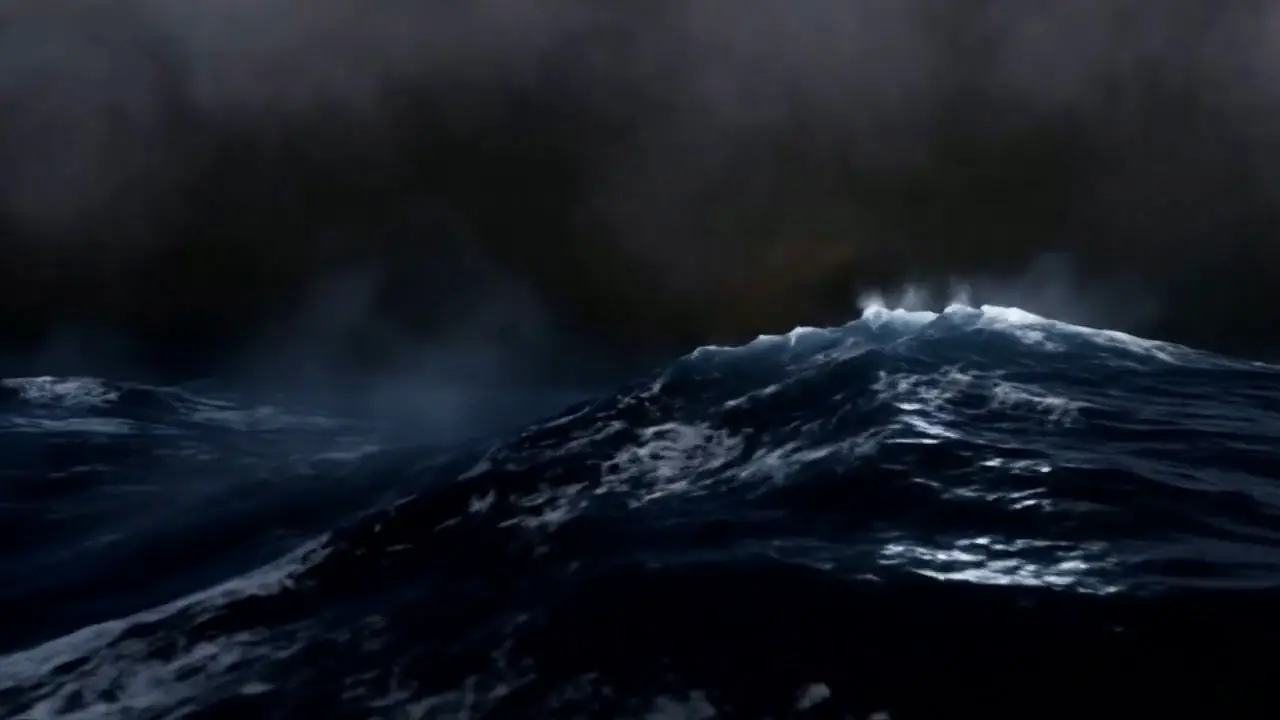
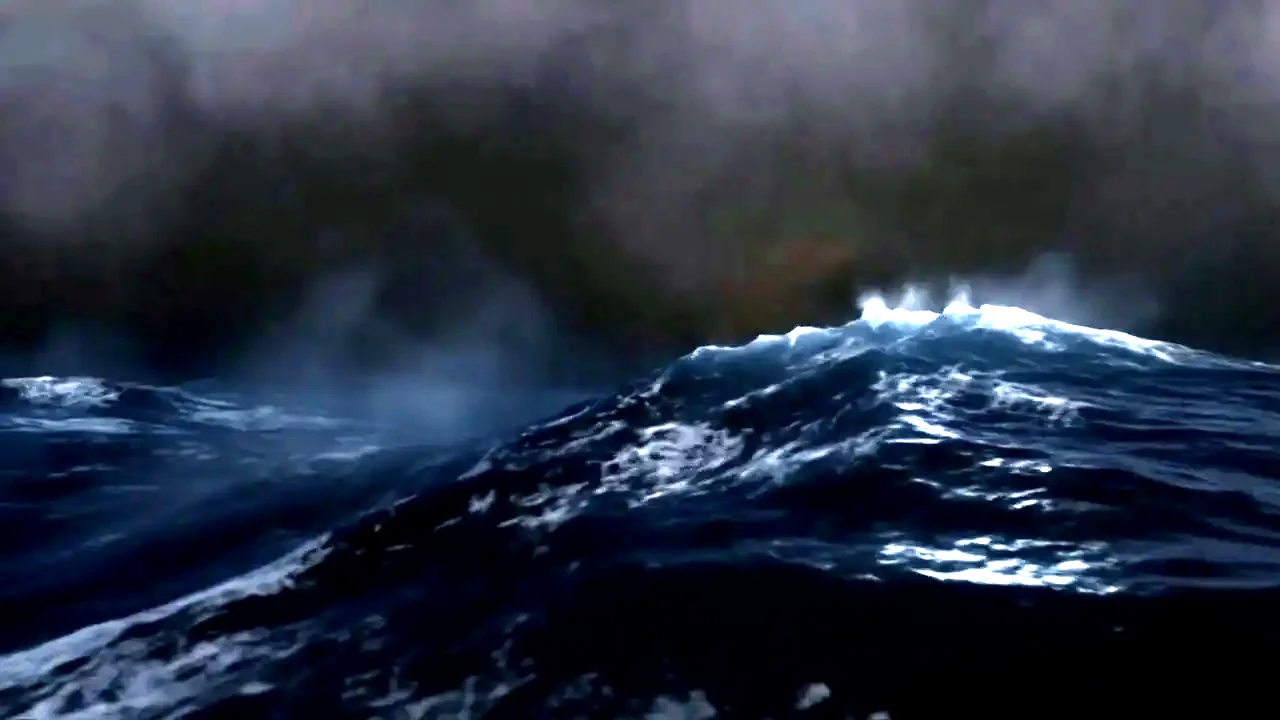
fix(hero): make ocean always visible + Mike May 27 copy edits
Hero ocean rendered black for Mike across Chrome/incognito/Mac/phone.
Root cause: the fallback <img> sat INSIDE <video>, so it was no-video
fallback content that never renders on modern browsers. When autoplay
was blocked (incognito, mobile, slow link) there was no image layer -
just the near-black poster, so the hero read as solid black.

- Move .hero-photo out of <video> to a real sibling base layer that
  always renders; drop the video poster so a non-playing video stays
  transparent and reveals the photo behind it.
- Brighten hero-ocean-night.webp (mean luma 27 -> 49) so the static
  ocean reads as ocean, not black; remove the .hero-photo brightness
  cut and set mobile photo opacity to 1.
- Sport-fishing card: "Three days" -> "Three days . Live aboard".
- Final headline personalized: "Michael is the same person in every room".

diff --git a/index.html b/index.html
@@ -228,11 +228,14 @@
   <!-- ============ HERO (centered, photo ocean background) ============ -->
   <section class="hero">
     <div class="hero-ocean" aria-hidden="true">
+      <!-- Always-rendered base layer: shows whenever the video can't autoplay
+           (incognito, mobile, slow connection). MUST stay a sibling of the
+           video, never a child of it - an <img> inside <video> is no-video
+           fallback content that never renders on modern browsers. -->
+      <img src="assets/hero-ocean-night.webp" alt="" class="hero-photo" width="1920" height="1080" decoding="async" fetchpriority="high" />
       <video class="hero-video" autoplay muted loop playsinline preload="metadata"
-             poster="assets/hero-ocean-night.webp"
              width="1920" height="1080">
         <source src="assets/hero-ocean-night.mp4" type="video/mp4" />
-        <img src="assets/hero-ocean-night.webp" alt="" class="hero-photo" width="1920" height="1080" decoding="async" fetchpriority="high" />
       </video>
       <div class="hero-vignette"></div>
     </div>
@@ -804,7 +807,7 @@
           <div class="mastermind-feature-body">
             <span class="mastermind-feature-tag">On the Water</span>
             <h3 class="mastermind-feature-title">Sport Fishing in the Bahamas</h3>
-            <p class="mastermind-feature-loc">Three days</p>
+            <p class="mastermind-feature-loc">Three days &middot; Live aboard</p>
           </div>
         </article>
 
@@ -1147,7 +1150,7 @@
         <div class="final-grid">
           <div class="final-left">
             <span class="final-mark" aria-hidden="true">&mdash;&#8202;Begin</span>
-            <h2 class="final-headline">Same person.<br/>Every room.</h2>
+            <h2 class="final-headline">Michael is the same person<br/>in every room.</h2>
           </div>
           <div class="final-right">
             <p class="final-body">A book on identity-based leadership for those winning externally and quietly negotiating internally. Start here.</p>

diff --git a/styles.css b/styles.css
@@ -807,7 +807,7 @@ html.js .reveal-right.in { opacity: 1; transform: none; }
   object-fit: cover;
   object-position: center center;
   animation: heroKenBurns 22s ease-in-out infinite alternate;
-  filter: saturate(0.88) contrast(1.08) brightness(0.78);
+  filter: saturate(0.95) contrast(1.06) brightness(1);
 }
 @keyframes heroKenBurns {
   from { transform: scale(1.02) translate3d(0, 0, 0); }
@@ -5236,7 +5236,7 @@ html.js .reveal-right.in { opacity: 1; transform: none; }
 @media (max-width: 720px) {
   /* hero video: skip the 3.2MB MP4 on cellular - poster JPG covers it */
   .hero-video { display: none; }
-  .hero-photo { display: block; opacity: 0.75; }
+  .hero-photo { display: block; opacity: 1; }
 
   /* nav: tighten + ensure touch targets >= 44px */
   .brand-line-1 { font-size: 13px; }